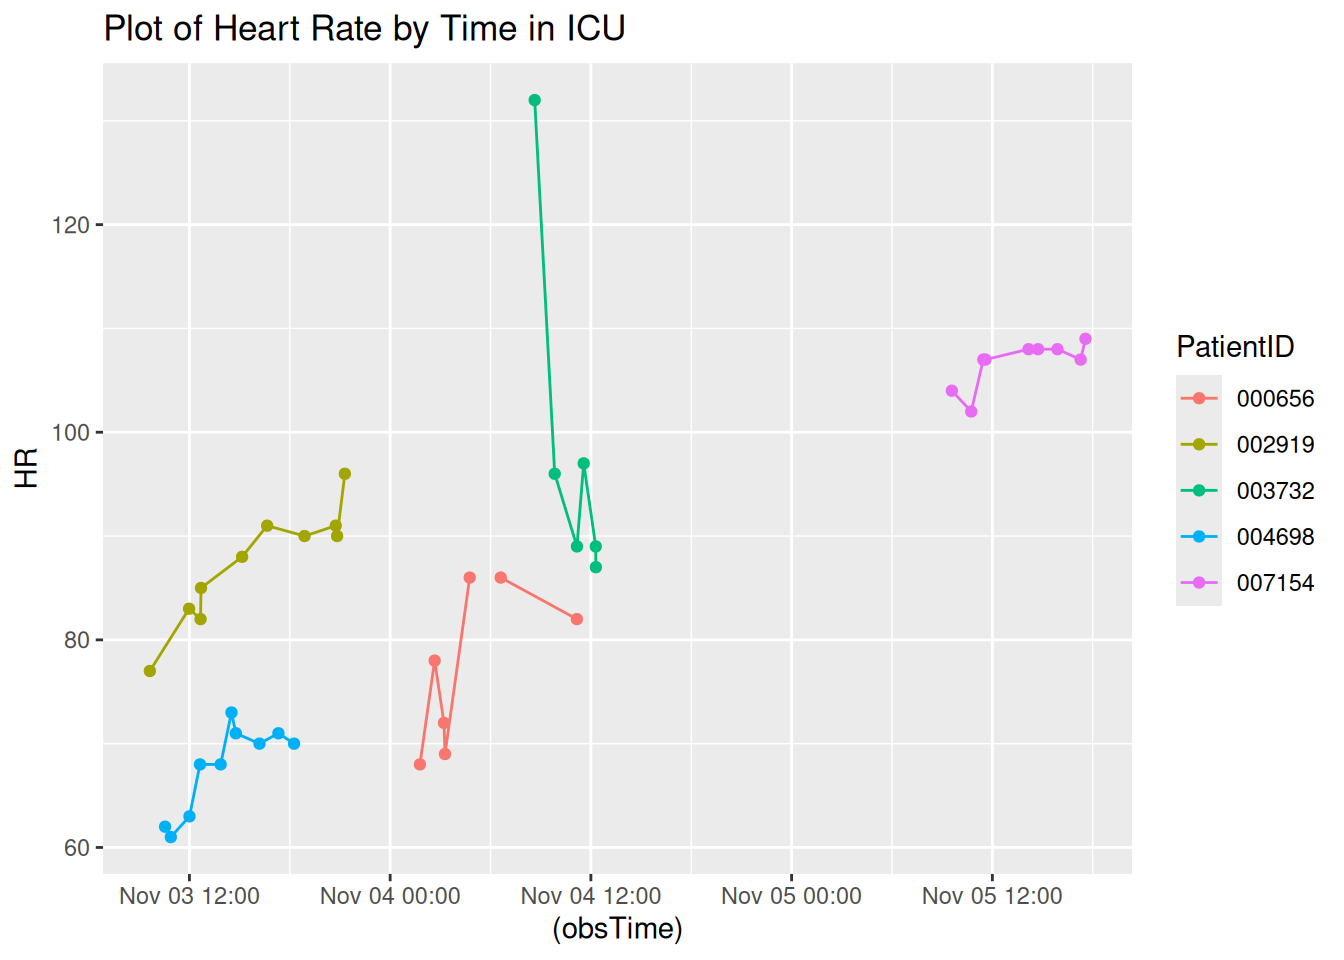
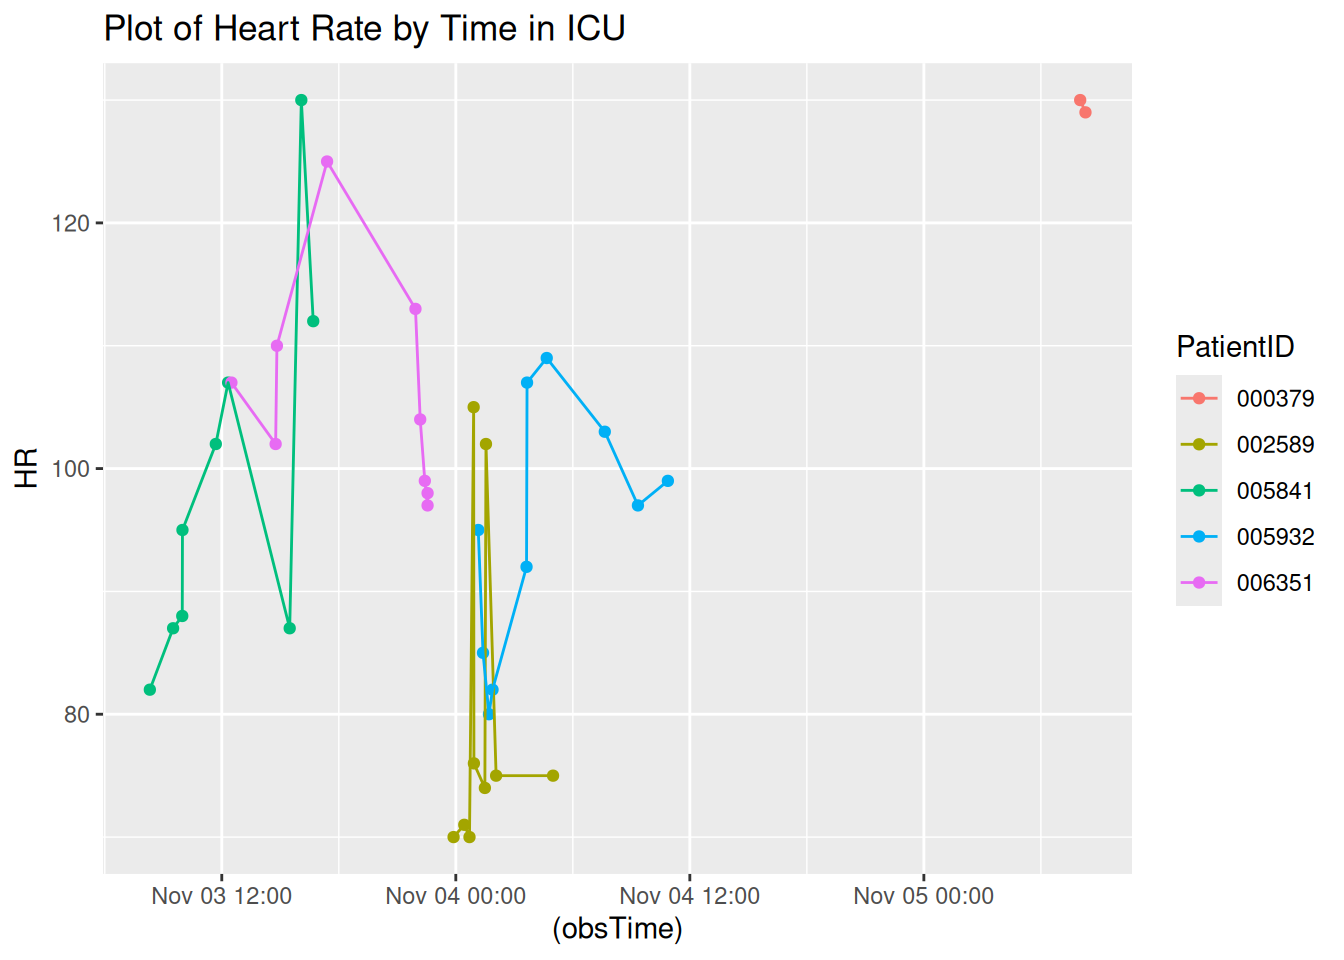
Updated report

diff --git a/A7.html b/A7.html
@@ -119,7 +119,7 @@ pre > code.sourceCode > span > a:first-child::before { text-decoration: underlin
 </div>
 <div class="code-copy-outer-scaffold"><div class="sourceCode cell-code" id="cb4"><pre class="sourceCode r code-with-copy"><code class="sourceCode r"><span id="cb4-1"><a href="#cb4-1" aria-hidden="true" tabindex="-1"></a><span class="fu">toc</span>()</span></code></pre></div><button title="Copy to Clipboard" class="code-copy-button"><i class="bi"></i></button></div>
 <div class="cell-output cell-output-stdout">
-<pre><code>13.592 sec elapsed</code></pre>
+<pre><code>10.954 sec elapsed</code></pre>
 </div>
 <div class="code-copy-outer-scaffold"><div class="sourceCode cell-code" id="cb6"><pre class="sourceCode r code-with-copy"><code class="sourceCode r"><span id="cb6-1"><a href="#cb6-1" aria-hidden="true" tabindex="-1"></a><span class="fu">tic</span>()</span>
 <span id="cb6-2"><a href="#cb6-2" aria-hidden="true" tabindex="-1"></a>test1<span class="ot">=</span><span class="fu">makeSepsisDataset</span>(<span class="at">n=</span><span class="dv">50</span>,<span class="at">read_fn =</span> <span class="st">"read_delim"</span>)</span>
@@ -129,7 +129,7 @@ pre > code.sourceCode > span > a:first-child::before { text-decoration: underlin
 </div>
 <div class="code-copy-outer-scaffold"><div class="sourceCode cell-code" id="cb8"><pre class="sourceCode r code-with-copy"><code class="sourceCode r"><span id="cb8-1"><a href="#cb8-1" aria-hidden="true" tabindex="-1"></a><span class="fu">toc</span>()</span></code></pre></div><button title="Copy to Clipboard" class="code-copy-button"><i class="bi"></i></button></div>
 <div class="cell-output cell-output-stdout">
-<pre><code>8.38 sec elapsed</code></pre>
+<pre><code>8.883 sec elapsed</code></pre>
 </div>
 <div class="code-copy-outer-scaffold"><div class="sourceCode cell-code" id="cb10"><pre class="sourceCode r code-with-copy"><code class="sourceCode r"><span id="cb10-1"><a href="#cb10-1" aria-hidden="true" tabindex="-1"></a><span class="co"># n=100</span></span>
 <span id="cb10-2"><a href="#cb10-2" aria-hidden="true" tabindex="-1"></a><span class="fu">tic</span>()</span>
@@ -140,7 +140,7 @@ pre > code.sourceCode > span > a:first-child::before { text-decoration: underlin
 </div>
 <div class="code-copy-outer-scaffold"><div class="sourceCode cell-code" id="cb12"><pre class="sourceCode r code-with-copy"><code class="sourceCode r"><span id="cb12-1"><a href="#cb12-1" aria-hidden="true" tabindex="-1"></a><span class="fu">toc</span>()</span></code></pre></div><button title="Copy to Clipboard" class="code-copy-button"><i class="bi"></i></button></div>
 <div class="cell-output cell-output-stdout">
-<pre><code>12.889 sec elapsed</code></pre>
+<pre><code>12.632 sec elapsed</code></pre>
 </div>
 <div class="code-copy-outer-scaffold"><div class="sourceCode cell-code" id="cb14"><pre class="sourceCode r code-with-copy"><code class="sourceCode r"><span id="cb14-1"><a href="#cb14-1" aria-hidden="true" tabindex="-1"></a><span class="fu">tic</span>()</span>
 <span id="cb14-2"><a href="#cb14-2" aria-hidden="true" tabindex="-1"></a>test1<span class="ot">=</span><span class="fu">makeSepsisDataset</span>(<span class="at">n=</span><span class="dv">100</span>,<span class="at">read_fn =</span> <span class="st">"read_delim"</span>)</span>
@@ -150,7 +150,7 @@ pre > code.sourceCode > span > a:first-child::before { text-decoration: underlin
 </div>
 <div class="code-copy-outer-scaffold"><div class="sourceCode cell-code" id="cb16"><pre class="sourceCode r code-with-copy"><code class="sourceCode r"><span id="cb16-1"><a href="#cb16-1" aria-hidden="true" tabindex="-1"></a><span class="fu">toc</span>()</span></code></pre></div><button title="Copy to Clipboard" class="code-copy-button"><i class="bi"></i></button></div>
 <div class="cell-output cell-output-stdout">
-<pre><code>15.445 sec elapsed</code></pre>
+<pre><code>15.743 sec elapsed</code></pre>
 </div>
 <div class="code-copy-outer-scaffold"><div class="sourceCode cell-code" id="cb18"><pre class="sourceCode r code-with-copy"><code class="sourceCode r"><span id="cb18-1"><a href="#cb18-1" aria-hidden="true" tabindex="-1"></a><span class="co"># n=500</span></span>
 <span id="cb18-2"><a href="#cb18-2" aria-hidden="true" tabindex="-1"></a><span class="fu">tic</span>()</span>
@@ -161,7 +161,7 @@ pre > code.sourceCode > span > a:first-child::before { text-decoration: underlin
 </div>
 <div class="code-copy-outer-scaffold"><div class="sourceCode cell-code" id="cb20"><pre class="sourceCode r code-with-copy"><code class="sourceCode r"><span id="cb20-1"><a href="#cb20-1" aria-hidden="true" tabindex="-1"></a><span class="fu">toc</span>()</span></code></pre></div><button title="Copy to Clipboard" class="code-copy-button"><i class="bi"></i></button></div>
 <div class="cell-output cell-output-stdout">
-<pre><code>66.685 sec elapsed</code></pre>
+<pre><code>63.584 sec elapsed</code></pre>
 </div>
 <div class="code-copy-outer-scaffold"><div class="sourceCode cell-code" id="cb22"><pre class="sourceCode r code-with-copy"><code class="sourceCode r"><span id="cb22-1"><a href="#cb22-1" aria-hidden="true" tabindex="-1"></a><span class="fu">tic</span>()</span>
 <span id="cb22-2"><a href="#cb22-2" aria-hidden="true" tabindex="-1"></a>test1<span class="ot">=</span><span class="fu">makeSepsisDataset</span>(<span class="at">n=</span><span class="dv">500</span>,<span class="at">read_fn =</span> <span class="st">"read_delim"</span>)</span>
@@ -171,7 +171,7 @@ pre > code.sourceCode > span > a:first-child::before { text-decoration: underlin
 </div>
 <div class="code-copy-outer-scaffold"><div class="sourceCode cell-code" id="cb24"><pre class="sourceCode r code-with-copy"><code class="sourceCode r"><span id="cb24-1"><a href="#cb24-1" aria-hidden="true" tabindex="-1"></a><span class="fu">toc</span>()</span></code></pre></div><button title="Copy to Clipboard" class="code-copy-button"><i class="bi"></i></button></div>
 <div class="cell-output cell-output-stdout">
-<pre><code>80.58 sec elapsed</code></pre>
+<pre><code>79.306 sec elapsed</code></pre>
 </div>
 </div>
 <p><strong>Task 3</strong></p>
@@ -197,7 +197,7 @@ pre > code.sourceCode > span > a:first-child::before { text-decoration: underlin
 <span id="cb28-4"><a href="#cb28-4" aria-hidden="true" tabindex="-1"></a></span>
 <span id="cb28-5"><a href="#cb28-5" aria-hidden="true" tabindex="-1"></a><span class="fu">Sys.time</span>()</span></code></pre></div><button title="Copy to Clipboard" class="code-copy-button"><i class="bi"></i></button></div>
 <div class="cell-output cell-output-stdout">
-<pre><code>[1] "2025-11-02 22:25:13 UTC"</code></pre>
+<pre><code>[1] "2025-11-02 23:25:23 UTC"</code></pre>
 </div>
 <div class="code-copy-outer-scaffold"><div class="sourceCode cell-code" id="cb30"><pre class="sourceCode r code-with-copy"><code class="sourceCode r"><span id="cb30-1"><a href="#cb30-1" aria-hidden="true" tabindex="-1"></a>dfnew <span class="ot">&lt;-</span> df <span class="sc">%&gt;%</span></span>
 <span id="cb30-2"><a href="#cb30-2" aria-hidden="true" tabindex="-1"></a>  <span class="fu">subset</span>(SepsisLabel<span class="sc">==</span><span class="dv">1</span>)</span>
@@ -226,49 +226,49 @@ pre > code.sourceCode > span > a:first-child::before { text-decoration: underlin
 </thead>
 <tbody>
 <tr class="odd">
-<td style="text-align: left;">000656</td>
-<td style="text-align: right;">40</td>
-<td style="text-align: right;">82</td>
+<td style="text-align: left;">000379</td>
+<td style="text-align: right;">57</td>
+<td style="text-align: right;">129</td>
 <td style="text-align: right;">NA</td>
-<td style="text-align: right;">17</td>
+<td style="text-align: right;">25</td>
 <td style="text-align: right;">1</td>
-<td style="text-align: left;">2025-11-04 11:09:43</td>
+<td style="text-align: left;">2025-11-05 08:17:12</td>
 </tr>
 <tr class="even">
-<td style="text-align: left;">002919</td>
-<td style="text-align: right;">23</td>
-<td style="text-align: right;">96</td>
-<td style="text-align: right;">36.33</td>
-<td style="text-align: right;">24</td>
+<td style="text-align: left;">002589</td>
+<td style="text-align: right;">30</td>
+<td style="text-align: right;">75</td>
+<td style="text-align: right;">NA</td>
+<td style="text-align: right;">15</td>
 <td style="text-align: right;">1</td>
-<td style="text-align: left;">2025-11-03 21:17:38</td>
+<td style="text-align: left;">2025-11-04 04:59:11</td>
 </tr>
 <tr class="odd">
-<td style="text-align: left;">003732</td>
-<td style="text-align: right;">41</td>
+<td style="text-align: left;">005841</td>
+<td style="text-align: right;">18</td>
+<td style="text-align: right;">112</td>
 <td style="text-align: right;">NA</td>
-<td style="text-align: right;">38.11</td>
-<td style="text-align: right;">NA</td>
+<td style="text-align: right;">28</td>
 <td style="text-align: right;">1</td>
-<td style="text-align: left;">2025-11-04 14:52:30</td>
+<td style="text-align: left;">2025-11-03 16:41:21</td>
 </tr>
 <tr class="even">
-<td style="text-align: left;">004698</td>
-<td style="text-align: right;">20</td>
-<td style="text-align: right;">70</td>
-<td style="text-align: right;">NA</td>
-<td style="text-align: right;">14</td>
-<td style="text-align: right;">1</td>
-<td style="text-align: left;">2025-11-03 18:15:26</td>
-</tr>
-<tr class="odd">
-<td style="text-align: left;">007154</td>
-<td style="text-align: right;">68</td>
-<td style="text-align: right;">109</td>
-<td style="text-align: right;">NA</td>
+<td style="text-align: left;">005932</td>
 <td style="text-align: right;">36</td>
+<td style="text-align: right;">99</td>
+<td style="text-align: right;">36.83</td>
+<td style="text-align: right;">19</td>
 <td style="text-align: right;">1</td>
-<td style="text-align: left;">2025-11-05 17:33:59</td>
+<td style="text-align: left;">2025-11-04 10:52:26</td>
+</tr>
+<tr class="odd">
+<td style="text-align: left;">006351</td>
+<td style="text-align: right;">24</td>
+<td style="text-align: right;">98</td>
+<td style="text-align: right;">NA</td>
+<td style="text-align: right;">31</td>
+<td style="text-align: right;">1</td>
+<td style="text-align: left;">2025-11-03 22:33:09</td>
 </tr>
 </tbody>
 </table>
